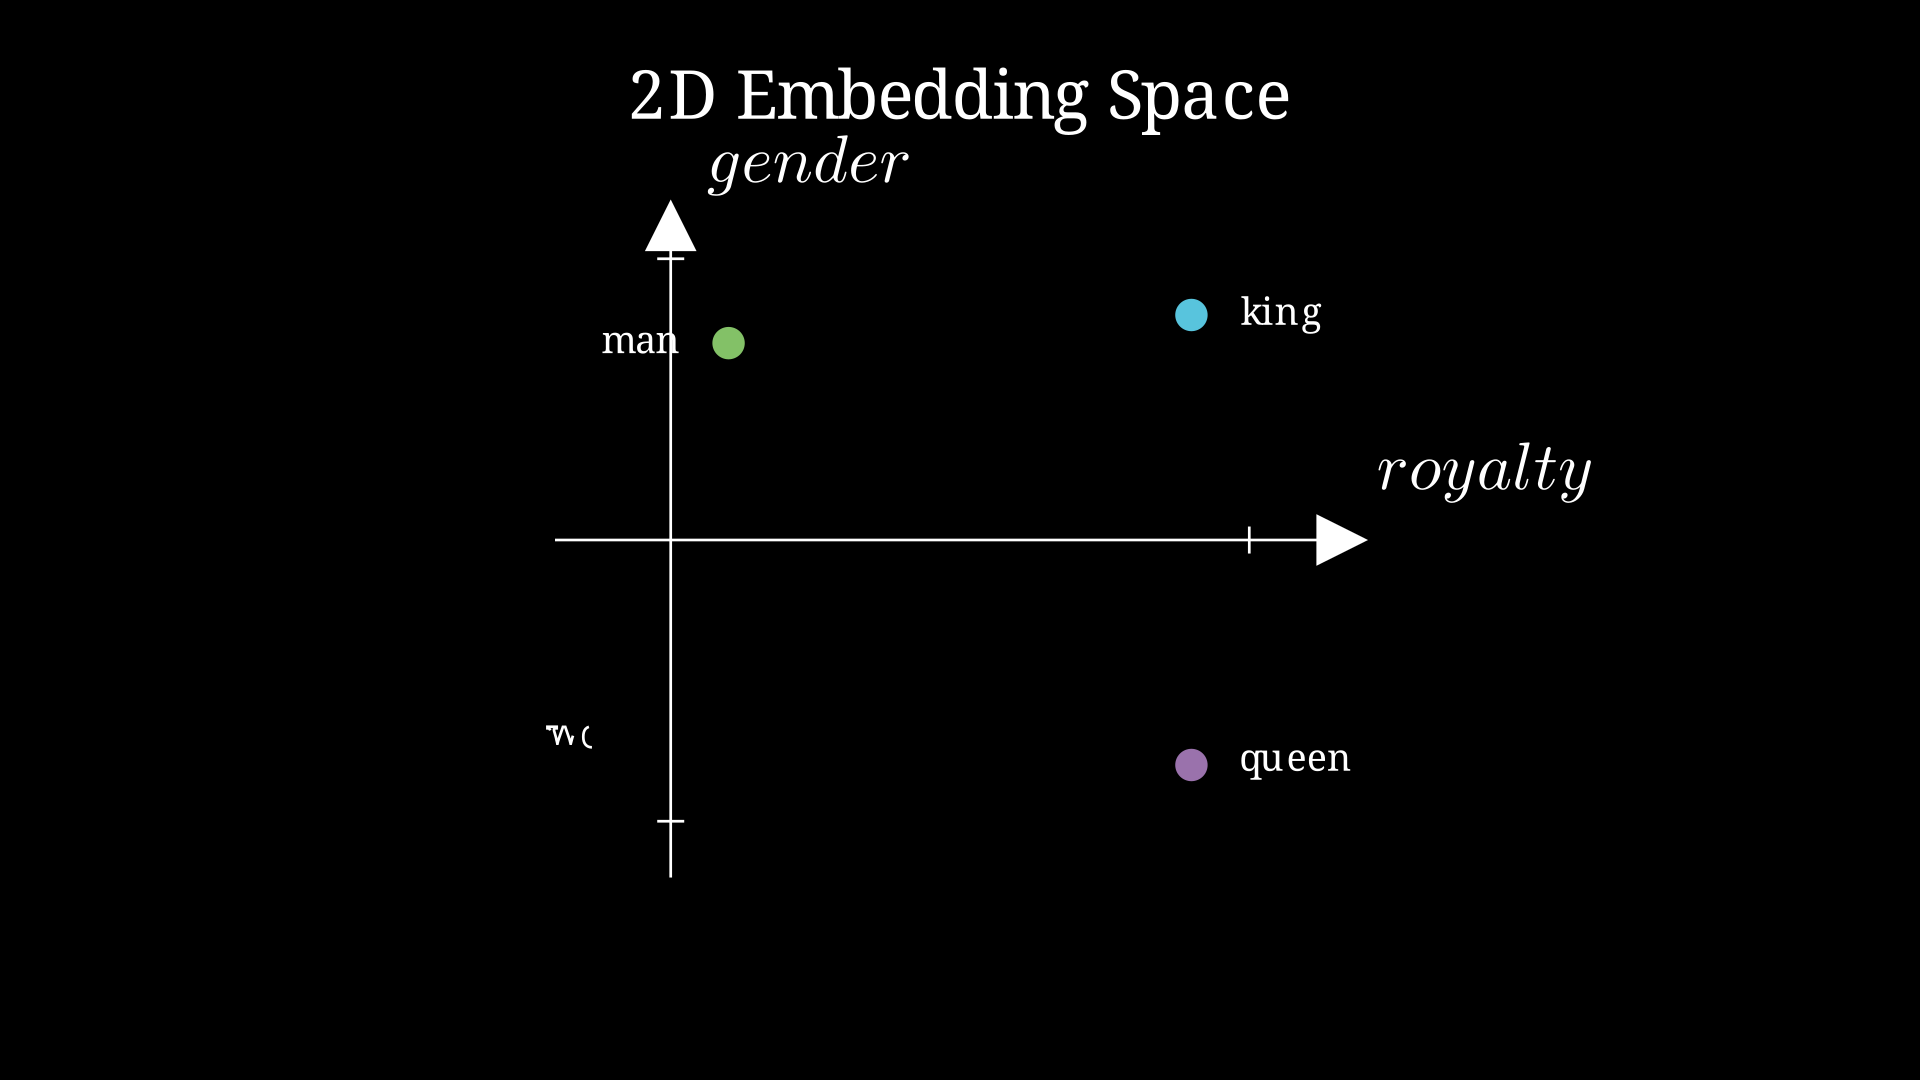
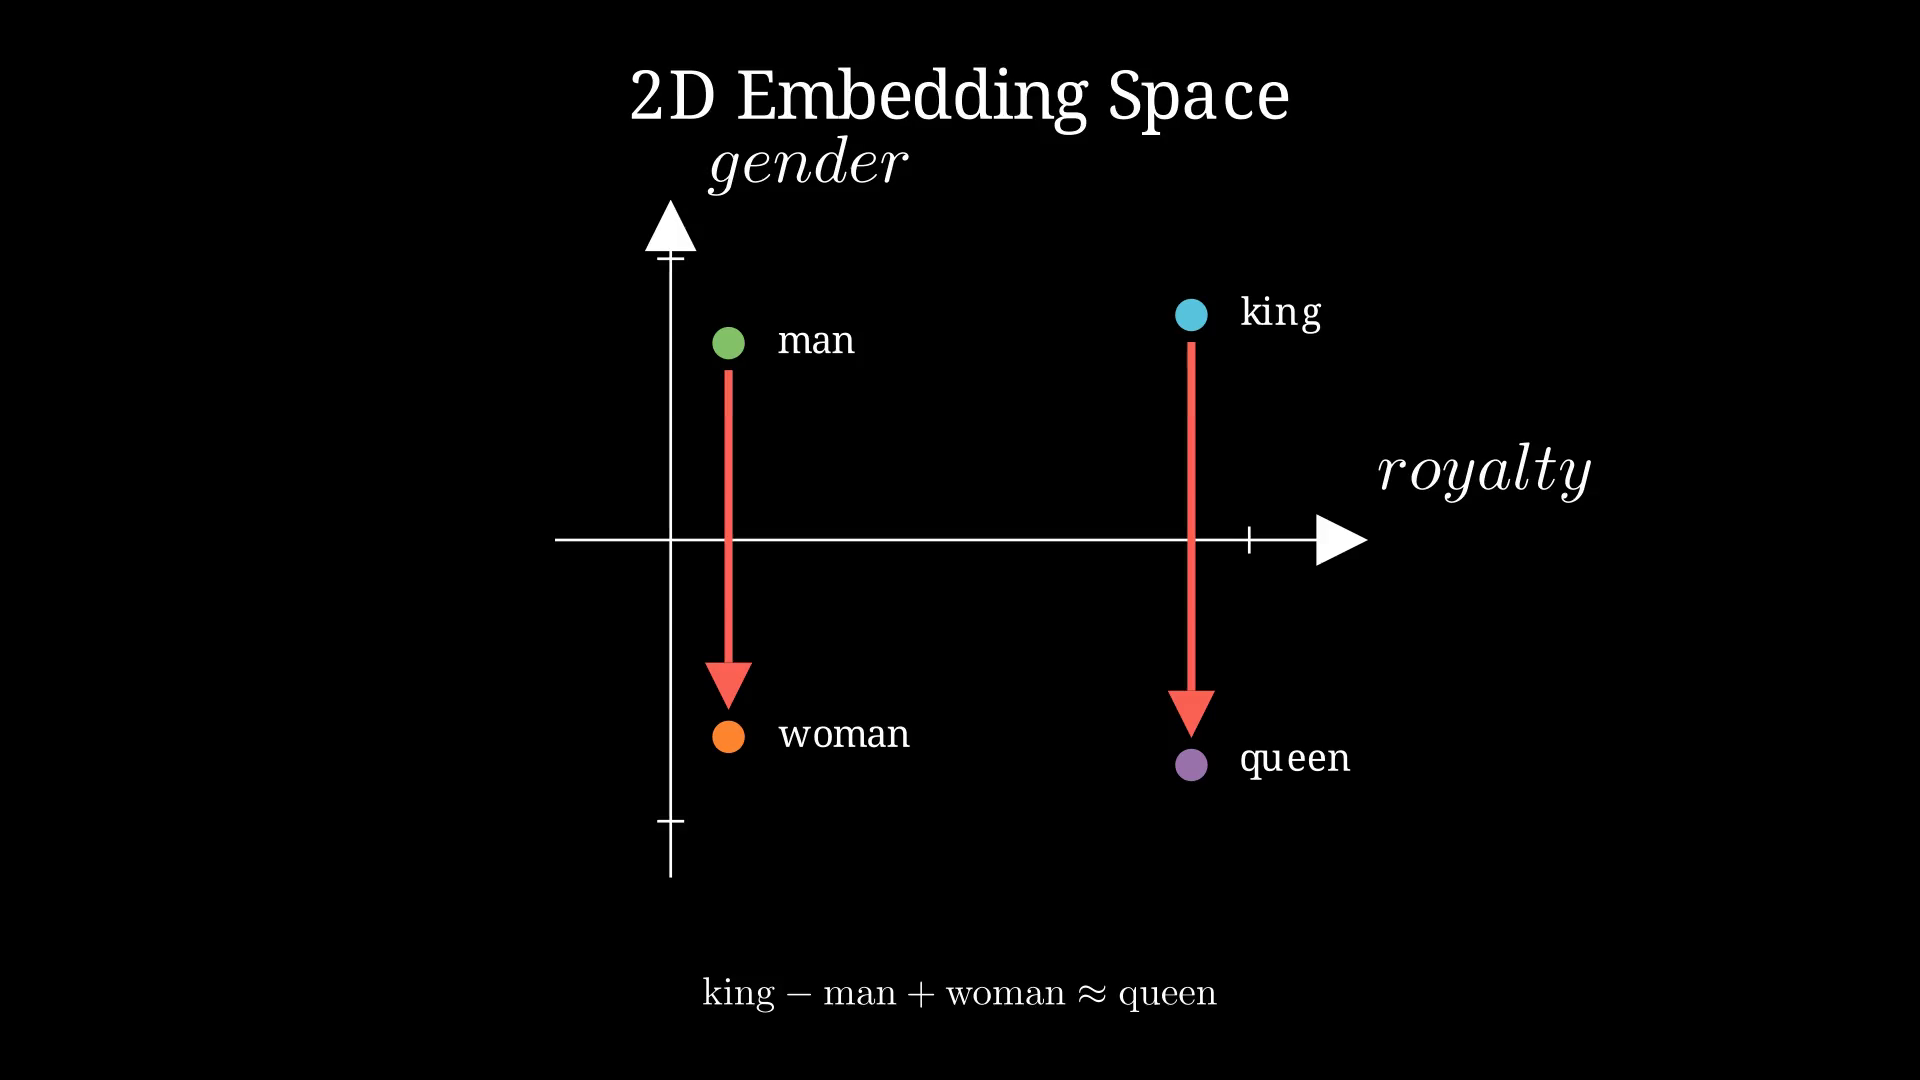
Fix 'woman' label being cut off in 2D embedding space visualization
- Change label position from LEFT to RIGHT for 'man' and 'woman'
- They were getting cut off at the left edge of the frame
- Rerender and update Scene2_2DEmbeddingSpace0294.png

diff --git a/visualizations/ch1_vector_revolution.py b/visualizations/ch1_vector_revolution.py
@@ -67,8 +67,8 @@ class Scene2_2DEmbeddingSpace(Scene):
         labels = {
             "king":   Text("king", font_size=20).next_to(points["king"], RIGHT),
             "queen":  Text("queen", font_size=20).next_to(points["queen"], RIGHT),
-            "man":    Text("man", font_size=20).next_to(points["man"], LEFT),
-            "woman":  Text("woman", font_size=20).next_to(points["woman"], LEFT),
+            "man":    Text("man", font_size=20).next_to(points["man"], RIGHT),
+            "woman":  Text("woman", font_size=20).next_to(points["woman"], RIGHT),
         }
 
         for name in points:
